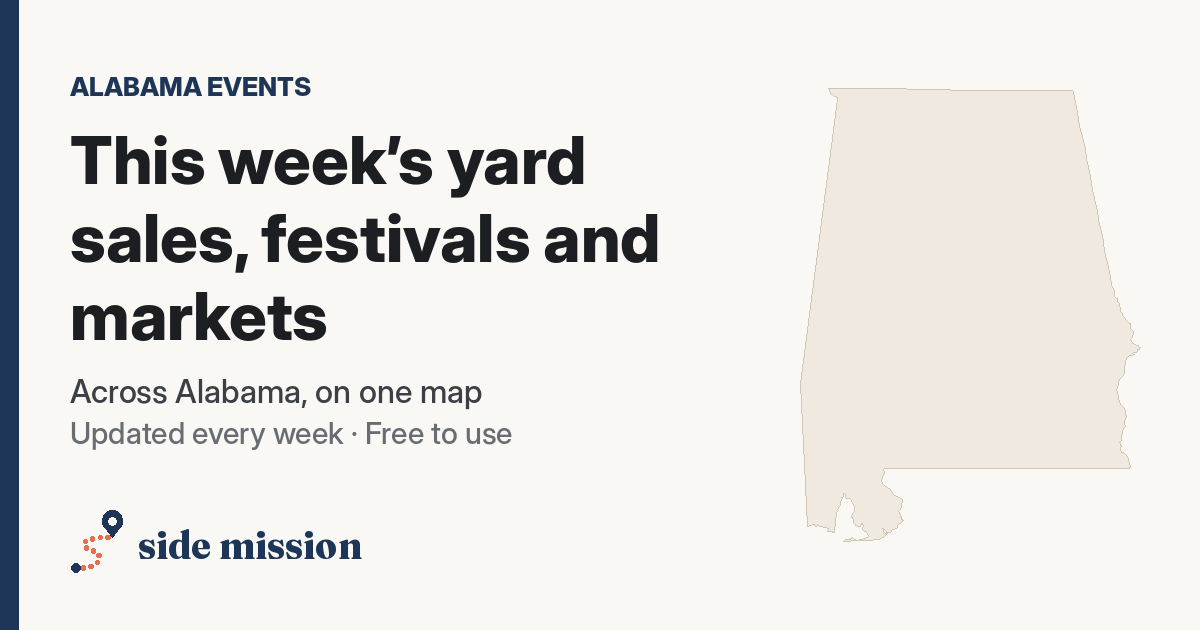
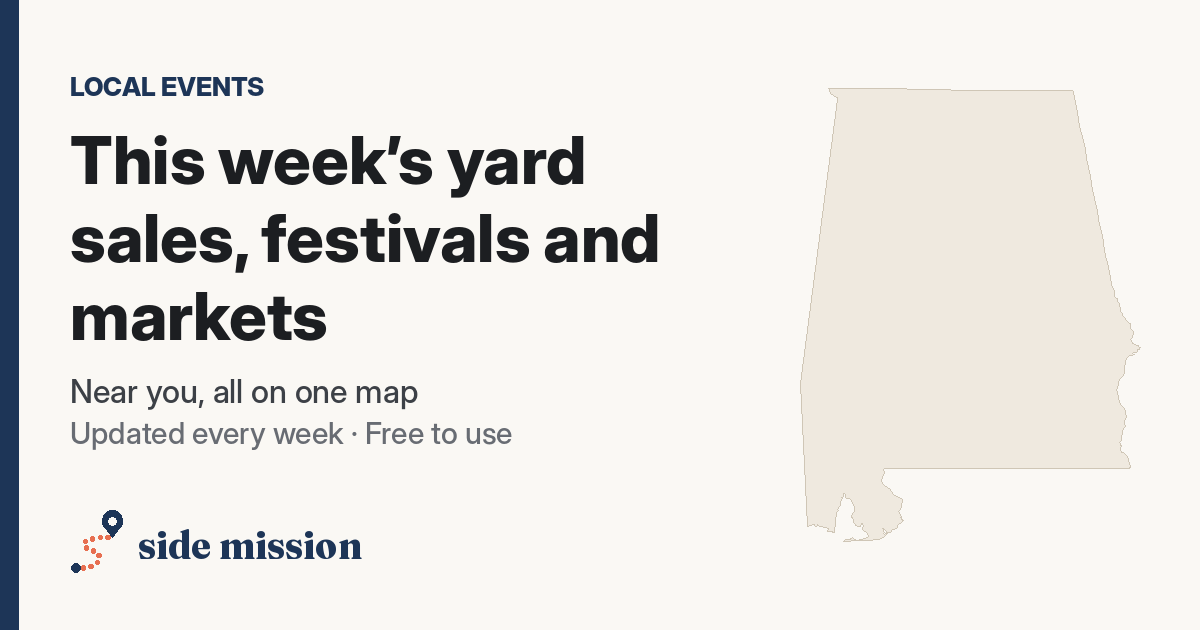
Front page goes national (Alabama as first live state, state picker on sign-up); type filters now show only what you tap
Claude-Session: https://claude.ai/code/session_01A8J2mazxrtYJuNhMQKnHhT

Changed region(s): [[0.0617, 0.6032, 0.4008, 0.6635], [0.0617, 0.1206, 0.2775, 0.1508]]

diff --git a/site/index.html b/site/index.html
@@ -3,11 +3,11 @@
 <head>
 <meta charset="utf-8">
 <meta name="viewport" content="width=device-width,initial-scale=1,viewport-fit=cover">
-<title>Side Mission · Things to do in Alabama this weekend</title>
-<meta name="description" content="Festivals, markets, yard sales, trunk-or-treats and church events across Alabama, on one map. Updated every week.">
+<title>Side Mission · Find things to do near you this weekend</title>
+<meta name="description" content="Festivals, markets, yard sales, trunk-or-treats and church events near you, all on one map. Updated every week.">
 <meta property="og:type" content="website">
-<meta property="og:title" content="Side Mission · Things to do in Alabama this weekend">
-<meta property="og:description" content="Festivals, markets, yard sales and church events across Alabama, on one map. Updated every week.">
+<meta property="og:title" content="Side Mission · Find things to do near you this weekend">
+<meta property="og:description" content="Festivals, markets, yard sales and church events near you, all on one map. Updated every week.">
 <meta property="og:image" content="https://sidemissionmap.com/og.png">
 <meta name="twitter:card" content="summary_large_image">
 <meta name="theme-color" content="#1d3557">
@@ -84,17 +84,22 @@ h2{font-size:clamp(28px,3.4vw,40px);line-height:1.1}
 .stats div b{display:block;font:800 34px/1 var(--display);color:var(--navy);letter-spacing:-.02em}
 .stats div span{font-size:14px;color:var(--muted);font-weight:600}
 
-.mapcard{position:relative;background:var(--panel);border:1px solid var(--line);border-radius:24px;box-shadow:var(--shadow);padding:22px;aspect-ratio:1/1.05;display:flex;align-items:center;justify-content:center;overflow:hidden}
-.mapcard svg.al{width:100%;height:100%}
+.mapcard{position:relative;background:var(--panel);border:1px solid var(--line);border-radius:24px;box-shadow:var(--shadow);padding:16px 18px 18px;display:flex;flex-direction:column;gap:10px}
+.mapcard svg.al{width:100%;height:auto;max-height:560px}
+.maphead{display:flex;gap:10px;align-items:flex-start;justify-content:space-between}
 .mapcard .state{fill:#ecece6;stroke:#c9c2b4;stroke-width:1.2;stroke-linejoin:round}
 .mapcard .trail{fill:none;stroke:var(--coral);stroke-width:3;stroke-linecap:round;stroke-dasharray:1 9;opacity:.7}
 .pin{transform-box:fill-box;transform-origin:50% 100%;animation:drop .5s cubic-bezier(.2,1.4,.4,1) both}
 .pin.now circle.halo{animation:pulse 2.2s ease-out infinite}
 @keyframes drop{from{transform:translateY(-14px) scale(.4);opacity:0}to{transform:none;opacity:1}}
 @keyframes pulse{0%{r:6;opacity:.5}100%{r:18;opacity:0}}
-.mapcard .tag{position:absolute;left:18px;bottom:16px;background:color-mix(in srgb,var(--panel) 92%,transparent);border:1px solid var(--line);border-radius:12px;padding:9px 12px;font-size:14px;font-weight:600;display:flex;gap:8px;align-items:center}
-.mapcard .tag i{width:10px;height:10px;border-radius:50%;background:var(--coral)}
-.mapcard a.open{position:absolute;right:16px;top:16px;min-height:40px;font-size:14px;padding:0 14px}
+.mapcard .tag{flex:1;min-width:0;background:var(--bg);border:1px solid var(--line);border-radius:12px;padding:9px 12px;font-size:14px;font-weight:600;display:flex;gap:8px;line-height:1.35}
+.mapcard .tag i{width:10px;height:10px;border-radius:50%;background:var(--coral);flex:none;margin-top:5px}
+.mapcard .tag{align-items:flex-start}
+.mapcard .tag b{color:var(--navy)}
+.mapcard .tag span span{font-weight:500;color:var(--muted)}
+.mapcard a.open{flex:none;min-height:40px;font-size:14px;padding:0 14px}
+@media (max-width:520px){.mapcard a.open{display:none}}
 @media (prefers-reduced-motion:reduce){.pin,.pin.now circle.halo{animation:none}}
 
 /* categories */
@@ -137,6 +142,8 @@ h2{font-size:clamp(28px,3.4vw,40px);line-height:1.1}
 .band p{color:#c6d1e2;margin:10px 0 0}
 .band form{display:flex;gap:10px;flex-wrap:wrap}
 .band label.em{flex:1 1 240px;display:flex;flex-direction:column;gap:6px;font-size:14px;font-weight:600;color:#c6d1e2}
+.band select{height:50px;border-radius:12px;border:1px solid rgba(255,255,255,.25);background:#24406a;color:#fff;font:500 17px var(--body);padding:0 10px;outline:none}
+.band label.st{flex:0 1 170px}
 .band input[type=email]{height:50px;border-radius:12px;border:1px solid rgba(255,255,255,.25);background:rgba(255,255,255,.08);color:#fff;font:500 17px var(--body);padding:0 14px;outline:none}
 .band input[type=email]:focus{border-color:#fff}
 .band input[type=email]::placeholder{color:#9eb0c8}
@@ -192,7 +199,7 @@ footer nav a{text-decoration:none}
       <div>
         <span class="pill"><i></i><span id="seasonLine">Updated every week</span></span>
         <h1>Find something to do <em>this weekend.</em></h1>
-        <p class="lede">Festivals, markets, yard sales, trunk-or-treats and church events across Alabama, all on one map. Free to use, checked every week.</p>
+        <p class="lede">Festivals, markets, yard sales, trunk-or-treats and church events near you, all on one map. Free to use, checked every week.</p>
         <form class="find" action="map.html" method="get" role="search">
           <label><svg viewBox="0 0 24 24" aria-hidden="true"><path d="M10 3a7 7 0 0 1 5.6 11.2l5.1 5.1-1.4 1.4-5.1-5.1A7 7 0 1 1 10 3zm0 2a5 5 0 1 0 0 10 5 5 0 0 0 0-10z"/></svg>
             <span class="hp">Town or event</span><input name="q" type="search" placeholder="Search a town or event" autocomplete="off"></label>
@@ -209,9 +216,9 @@ footer nav a{text-decoration:none}
         </div>
       </div>
       <div class="mapcard">
-        <svg class="al" id="alMap" role="img" aria-label="Map of Alabama with a pin for each upcoming event"></svg>
-        <a class="btn open" href="map.html">Open the map</a>
-        <div class="tag"><i></i><span id="mapTag">Pins show upcoming events</span></div>
+        <div class="maphead"><div class="tag"><i></i><span><b>Now live: Alabama</b><br><span id="mapTag">Pins show upcoming events</span> · more states coming soon</span></div>
+          <a class="btn open" href="map.html">Open the map</a></div>
+        <svg class="al" id="alMap" role="img" aria-label="Map of Alabama, the first state on Side Mission, with a pin for each upcoming event"></svg>
       </div>
     </div>
   </section>
@@ -251,9 +258,10 @@ footer nav a{text-decoration:none}
         <div><h2>Get the weekend list</h2><p>One email before the weekend with the best events near you. No spam, unsubscribe anytime.</p></div>
         <form id="signup">
           <label class="em">Your email<input type="email" name="email" required placeholder="you@example.com" autocomplete="email"></label>
+          <label class="em st">Your state<select name="state" id="stateSel" required></select></label>
           <input type="checkbox" name="botcheck" class="hp" tabindex="-1" aria-hidden="true">
           <button class="btn" type="submit" id="signBtn">Sign me up</button>
-          <p class="note" id="signNote">We’ll only use your email to send the weekend list.</p>
+          <p class="note" id="signNote">Not in Alabama? Pick your state and we’ll email you when Side Mission arrives. We only use your email for that and the weekend list.</p>
         </form>
       </div>
     </div>
@@ -261,7 +269,7 @@ footer nav a{text-decoration:none}
 
   <section class="sec" id="business" style="padding-top:24px">
     <div class="wrap">
-      <div class="sec-head reveal"><div><span class="eyebrow">For organizers and businesses</span><h2>Get your event in front of Alabama</h2></div></div>
+      <div class="sec-head reveal"><div><span class="eyebrow">For organizers and businesses</span><h2>Get your event in front of locals</h2></div></div>
       <div class="biz reveal">
         <div class="box"><h3>List an event, free</h3><p>Yard sales, festivals, markets, church and school events. We check every listing, usually within a day.</p><ul><li>Shows on the map and in the weekly list</li><li>Its own share page for Facebook and texts</li></ul><a class="btn primary" href="submit.html">Submit an event</a></div>
         <div class="box"><h3>Get featured or sponsor</h3><p>Put your event at the top with a Featured badge, or sponsor the map for a season and reach local families every week.</p><ul><li>Featured pin and badge</li><li>Sponsor spot on the map panel</li></ul><a class="btn" href="submit.html?type=featured">Ask about featuring</a></div>
@@ -274,7 +282,7 @@ footer nav a{text-decoration:none}
   <div class="wrap">
     <div>
       <a class="logo" href="./" aria-label="Side Mission home"><svg viewBox="0 0 80 80" aria-hidden="true"><path d="M12 70 C 44 72 50 54 32 48 C 14 42 20 31 58 32" fill="none" stroke="#e76f51" stroke-width="5" stroke-linecap="round" stroke-dasharray="1 8.5"/><circle cx="12" cy="70" r="5.5" fill="#1d3557"/><path d="M58 32c0 0-13-12.5-13-20.5a13 13 0 0 1 26 0c0 8-13 20.5-13 20.5z" fill="#1d3557"/><circle cx="58" cy="11.5" r="5" fill="#f3f1ec"/></svg>side mission</a>
-      <p>Community events across Alabama, updated every week. Questions or corrections: <a href="mailto:sidemissionmap@gmail.com">sidemissionmap@gmail.com</a></p>
+      <p>Local events on one map, updated every week. Now live in Alabama, with more states on the way. Questions or corrections: <a href="mailto:sidemissionmap@gmail.com">sidemissionmap@gmail.com</a></p>
     </div>
     <nav aria-label="Footer">
       <a href="map.html">Map</a><a href="map.html?when=weekend">This weekend</a><a href="submit.html">Submit an event</a><a href="submit.html?type=correction">Fix a listing</a><a href="submit.html?type=featured">Advertise</a>
@@ -307,8 +315,8 @@ const esc=s=>String(s||"").replace(/[&<>"]/g,c=>({"&":"&amp;","<":"&lt;",">":"&g
 const mon=d=>d.toLocaleDateString("en-US",{month:"short"});
 
 // seasonal line
-const SEASON=[["winter","Winter in Alabama"],["winter","Winter in Alabama"],["spring","Spring festival season"],["spring","Spring festival season"],["spring","Spring festival season"],
-  ["summer","Summer in Alabama"],["summer","Summer in Alabama"],["summer","Summer in Alabama"],["harvest","Fall festival season"],["halloween","Spooky season is here"],["harvest","Holiday market season"],["christmas","Christmas in Alabama"]][today.getMonth()];
+const SEASON=[["winter","Winter events near you"],["winter","Winter events near you"],["spring","Spring festival season"],["spring","Spring festival season"],["spring","Spring festival season"],
+  ["summer","Summer festival season"],["summer","Summer festival season"],["summer","Summer festival season"],["harvest","Fall festival season"],["halloween","Spooky season is here"],["harvest","Holiday market season"],["christmas","Christmas markets and parades"]][today.getMonth()];
 document.documentElement.setAttribute("data-season",SEASON[0]);$("seasonLine").textContent=SEASON[1];
 $("wkLabel").textContent=`${mon(wkStart)} ${wkStart.getDate()}${+wkEnd!==+wkStart?"–"+(wkEnd.getMonth()!==wkStart.getMonth()?mon(wkEnd)+" ":"")+wkEnd.getDate():""}`;
 
@@ -326,7 +334,7 @@ function pins(list){
     const x=X(e.lng),y=Y(e.lat),c=`var(--c-${e.cat})`,isNow=now.includes(e);
     return `<g class="pin${isNow?" now":""}" style="animation-delay:${(300+i*35)}ms"><title>${esc(e.title)} · ${esc(e.town)}</title>${isNow?`<circle class="halo" cx="${x}" cy="${y-9}" r="6" fill="${c}"/>`:""}<path d="M${x} ${y}c0 0-7-6.8-7-11.2a7 7 0 0 1 14 0c0 4.4-7 11.2-7 11.2z" fill="${c}" stroke="#fff" stroke-width="1.6"/><circle cx="${x}" cy="${y-11}" r="2.4" fill="#fff"/></g>`}).join("");
   svg.insertAdjacentHTML("beforeend",g);
-  $("mapTag").textContent=`${list.length} upcoming events · ${now.length} this weekend`;
+  $("mapTag").textContent=`${list.length} events, ${now.length} this weekend`;
 }
 
 function card(e){
@@ -367,12 +375,15 @@ $("signup").addEventListener("submit",async ev=>{
   if(!key){$("signNote").textContent="Sign-up isn’t available right now. Please try again later.";return}
   btn.disabled=true;btn.textContent="Signing up…";
   const fd=new FormData();fd.append("access_key",key);fd.append("subject","Side Mission: weekend list sign-up");fd.append("from_name","Side Mission");
-  fd.append("request_type","Weekend list sign-up");fd.append("email",f.email.value);
+  fd.append("request_type","Weekend list sign-up");fd.append("email",f.email.value);fd.append("state",f.state.value);
   try{const r=await fetch("https://api.web3forms.com/submit",{method:"POST",body:fd,headers:{Accept:"application/json"}});const j=await r.json().catch(()=>({}));
-    if(!r.ok||j.success===false)throw 0;f.innerHTML='<p class="ok">Thanks! You’re on the list for the weekend email.</p>'}
+    if(!r.ok||j.success===false)throw 0;f.innerHTML=f.state&&f.state.value!=="Alabama"?'<p class="ok">Thanks! We’ll email you when Side Mission comes to your state.</p>':'<p class="ok">Thanks! You’re on the list for the weekend email.</p>'}
   catch(x){btn.disabled=false;btn.textContent="Sign me up";$("signNote").textContent="That didn’t go through. Please try again in a minute."}
 });
 
+// state list for the sign-up (Alabama is live; others join the waitlist)
+const STATES="Alabama,Alaska,Arizona,Arkansas,California,Colorado,Connecticut,Delaware,Florida,Georgia,Hawaii,Idaho,Illinois,Indiana,Iowa,Kansas,Kentucky,Louisiana,Maine,Maryland,Massachusetts,Michigan,Minnesota,Mississippi,Missouri,Montana,Nebraska,Nevada,New Hampshire,New Jersey,New Mexico,New York,North Carolina,North Dakota,Ohio,Oklahoma,Oregon,Pennsylvania,Rhode Island,South Carolina,South Dakota,Tennessee,Texas,Utah,Vermont,Virginia,Washington,West Virginia,Wisconsin,Wyoming,Washington D.C.".split(",");
+$("stateSel").innerHTML='<option value="Alabama">Alabama (live)</option>'+STATES.slice(1).map(s=>`<option>${s}</option>`).join("");
 // small touches
 const top=$("top");addEventListener("scroll",()=>top.classList.toggle("scrolled",scrollY>8),{passive:true});
 const io="IntersectionObserver" in window?new IntersectionObserver(es=>es.forEach(x=>{if(x.isIntersecting){x.target.classList.add("in");io.unobserve(x.target)}}),{rootMargin:"0px 0px -8% 0px"}):null;

diff --git a/site/assets/app.js b/site/assets/app.js
@@ -50,7 +50,8 @@ const isFree=e=>/^free/i.test(e.cost||"");
 const monthTheme=THEMES.find(t=>t.months.includes(new Date().getMonth())).id;
 let themePref=store.get("al-theme")||"auto";
 let when="all",query="",onlySaved=false,me=null;
-const on=new Set(Object.keys(CATS));
+// Category filter: nothing picked = show every type; tapping a type shows only that type, more taps add more types.
+const on=new Set();
 let saved=new Set();try{saved=new Set(JSON.parse(store.get("al-saved")||"[]"))}catch(e){}
 const saveSaved=()=>store.set("al-saved",JSON.stringify([...saved]));
 
@@ -259,7 +260,7 @@ function visible(){
   const q=query.trim().toLowerCase();
   return upcoming.filter(e=>{
     if(onlySaved&&!saved.has(e.id))return false;
-    if(!on.has(e.cat))return false;
+    if(on.size&&!on.has(e.cat))return false;
     if(when==="weekend"&&!overlaps(e,wkStart,wkEnd))return false;
     if(when==="week"&&!overlaps(e,today,addDays(today,6)))return false;
     if(q&&![e.title,e.town,e.place,e.desc,e.addr].join(" ").toLowerCase().includes(q))return false;
@@ -294,7 +295,7 @@ function render(){
   $("sWeekend").textContent=upcoming.filter(e=>overlaps(e,wkStart,wkEnd)).length;
   $("sFree").textContent=upcoming.filter(isFree).length;
   let h="";
-  if(!vis.length)h=`<p class="empty">${onlySaved&&!saved.size?"You haven’t saved any events yet. Open an event and tap Save.":"No events match. Clear the search, pick “All upcoming,” or turn a category back on."}</p>`;
+  if(!vis.length)h=`<p class="empty">${onlySaved&&!saved.size?"You haven’t saved any events yet. Open an event and tap Save.":"No events match. Clear the search, pick “All upcoming,” or tap “Show all” under the event types."}</p>`;
   else if(me){
     const list=vis.slice().sort((a,b)=>(b.featured?1:0)-(a.featured?1:0)||miles(a)-miles(b));
     h+=`<div class="grp"><span>Closest to you</span><span>${list.length}</span></div>`+list.map(card).join("");
@@ -310,6 +311,7 @@ function render(){
 function buildCats(){
   $("cats").innerHTML=Object.entries(CATS).map(([k,c])=>{const n=upcoming.filter(e=>e.cat===k).length;if(!n)return "";
     return `<button type="button" class="chip" id="cat-${k}" data-c="${k}" aria-pressed="${on.has(k)}"><i style="background:var(--c-${k})">${glyph(k)}</i>${c.name}<span class="n">${n}</span></button>`}).join("")
+   +`<button type="button" class="chip clear" id="cat-all"${on.size?"":" hidden"}>Show all</button>`
    +`<button type="button" class="chip saved" id="cat-saved" aria-pressed="${onlySaved}">${HEART}Saved<span class="n" id="nSaved">${saved.size}</span></button>`;
 }
 function buildSponsor(){
@@ -369,7 +371,10 @@ document.addEventListener("keydown",e=>{if(e.key==="Escape"){$("themeMenu").hidd
 $("when").addEventListener("click",ev=>{const b=ev.target.closest("button");if(!b)return;when=b.dataset.w;document.querySelectorAll("#when button").forEach(x=>x.setAttribute("aria-pressed",x===b));render();fitEvents()});
 $("cats").addEventListener("click",ev=>{const b=ev.target.closest(".chip");if(!b)return;
   if(b.id==="cat-saved"){onlySaved=!onlySaved;b.setAttribute("aria-pressed",onlySaved);render();return}
-  const c=b.dataset.c;on.has(c)?on.delete(c):on.add(c);b.setAttribute("aria-pressed",on.has(c));render()});
+  if(b.id==="cat-all")on.clear();else{const c=b.dataset.c;on.has(c)?on.delete(c):on.add(c)}
+  syncCats();render()});
+function syncCats(){$("cats").classList.toggle("picking",on.size>0);$("cat-all").hidden=!on.size;
+  document.querySelectorAll("#cats .chip[data-c]").forEach(x=>x.setAttribute("aria-pressed",on.has(x.dataset.c)))}
 $("q").addEventListener("input",ev=>{query=ev.target.value;render()});
 $("list").addEventListener("click",ev=>{const b=ev.target.closest(".card");if(!b)return;const e=upcoming.find(x=>x.id===b.dataset.id);if(e)openEvent(e)});
 function boundsOf(pts){const b=new maplibregl.LngLatBounds();pts.forEach(p=>b.extend(p));return b}
@@ -434,7 +439,7 @@ const QP=new URLSearchParams(location.search);
 if(QP.get("q")){query=QP.get("q");$("q").value=query}
 if(QP.get("cat")&&CATS[QP.get("cat")]){on.clear();on.add(QP.get("cat"))}
 if(["weekend","week","all"].includes(QP.get("when"))){when=QP.get("when");document.querySelectorAll("#when button").forEach(x=>x.setAttribute("aria-pressed",x.dataset.w===when))}
-setSheet("peek");buildLayerMenu();buildMenu();buildCats();buildSponsor();render();
+setSheet("peek");buildLayerMenu();buildMenu();buildCats();syncCats();buildSponsor();render();
 applyTheme();
 window.matchMedia("(prefers-color-scheme: dark)").addEventListener("change",styleMap);
 new MutationObserver(styleMap).observe(document.documentElement,{attributes:true,attributeFilter:["data-theme"]});

diff --git a/site/assets/app.css b/site/assets/app.css
@@ -112,9 +112,12 @@ h1.brand .mark{width:1.3em;height:1.3em;flex:none;margin:-.08em 0}
 .chip i{width:14px;height:14px;border-radius:50%;display:grid;place-items:center}
 .chip i svg{width:8px;height:8px;fill:var(--pin-ink)}
 .chip .n{color:var(--muted);font-variant-numeric:tabular-nums}
-.chip[aria-pressed="false"]{opacity:.42}
-.chip[aria-pressed="false"] i{background:transparent!important;box-shadow:inset 0 0 0 1.5px var(--muted)}
-.chip[aria-pressed="false"] i svg{display:none}
+.chips.picking .chip[data-c][aria-pressed="false"]{opacity:.42}
+.chips.picking .chip[data-c][aria-pressed="false"] i{background:transparent!important;box-shadow:inset 0 0 0 1.5px var(--muted)}
+.chips.picking .chip[data-c][aria-pressed="false"] i svg{display:none}
+.chips.picking .chip[data-c][aria-pressed="true"]{border-color:var(--ink);background:var(--panel);box-shadow:0 0 0 1px var(--ink) inset}
+.chip.clear{color:var(--accent);border-style:dashed}
+.chip[hidden]{display:none}
 
 .grp{position:sticky;top:0;z-index:1;background:var(--panel);padding:14px 8px 6px;font-size:11px;text-transform:uppercase;letter-spacing:.12em;color:var(--muted);font-weight:700;display:flex;justify-content:space-between}
 .card{display:grid;grid-template-columns:46px minmax(0,1fr) auto;gap:12px;align-items:center;width:100%;text-align:left;border:0;background:transparent;border-radius:12px;padding:8px;cursor:pointer}

diff --git a/site/build.py b/site/build.py
@@ -140,7 +140,7 @@ def main():
     os.makedirs(os.path.join(ROOT, "e"), exist_ok=True)
     # site preview image
     pt = card_image(os.path.join(ROOT, "og.png"), "This week’s yard sales, festivals and markets",
-                    "Across Alabama, on one map", "Updated every week · Free to use", "#1d3557", "Alabama events")
+                    "Near you, all on one map", "Updated every week · Free to use", "#1d3557", "Local events")
     n = 0
     for e in EVENTS:
         cat, color = CATS.get(e["cat"], ("Event", "#1d3557"))
